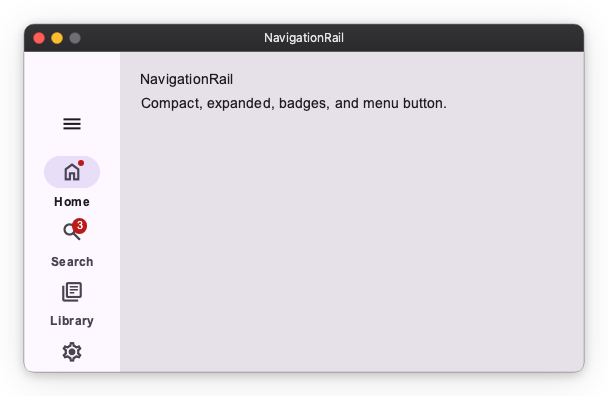
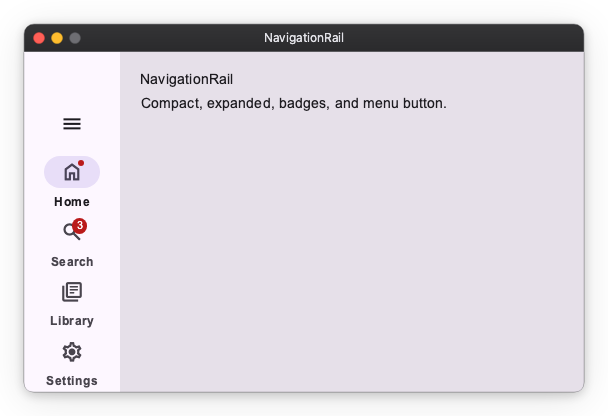
fix: give NavigationRail an intrinsic height under auto sizing (#377)
A NavigationRail without an explicit height resolved to Sizing.auto(),
but its custom _NavigationRailLayout never implemented preferred_size, so
the base Widget default reported height 0. The rail still painted its
items, yet its layout rect was 0-height and pointer hit-testing missed
the whole rail (no hover, click, or menu toggle).

Implement preferred_size on _NavigationRailLayout, mirroring the collapsed
metrics used by its running-cursor layout, so Box -> NavigationRail.
preferred_size propagates a real content height. auto now sizes the rail
to its content and it becomes hit-testable without an explicit height.

Also drop the explicit height from the NavigationRail sample and
regenerate its guide image to exercise the auto path.

diff --git a/tests/navigation/test_navigation_rail_layout.py b/tests/navigation/test_navigation_rail_layout.py
@@ -486,6 +486,74 @@ def test_animation_transition_expanded_to_collapsed_container_width():
 
 
 # ---------------------------------------------------------------------------
+# Intrinsic (auto) height — preferred_size (#377)
+# ---------------------------------------------------------------------------
+# Without an explicit height the rail resolves to Sizing.auto() ("size to
+# preferred"). Before #377 the custom layout reported height 0, so the rail
+# painted but had a 0-height rect that missed all pointer hit-testing.
+
+
+def test_preferred_size_reports_intrinsic_content_height():
+    """auto height sizes the rail to its content instead of collapsing to 0.
+
+    Default style, 3 items, menu button shown:
+        top_padding(44)
+        + menu_button_size(56) + gap_collapsed(4)
+        + 3 * item_height(56)
+        + (3 - 1) * gap_collapsed(4)
+        = 280
+    """
+    items = [
+        RailItem(icon="home", label="Home"),
+        RailItem(icon="search", label="Search"),
+        RailItem(icon="settings", label="Settings"),
+    ]
+    rail = NavigationRail(children=items, expanded=False)
+
+    pref_w, pref_h = rail.preferred_size()
+    assert pref_w == 96
+    assert pref_h == 280
+
+
+def test_preferred_size_excludes_menu_button_when_hidden():
+    """Hiding the menu button drops its size and gap from the intrinsic height.
+
+        top_padding(44) + 2 * item_height(56) + 1 * gap_collapsed(4) = 160
+    """
+    items = [
+        RailItem(icon="home", label="Home"),
+        RailItem(icon="search", label="Search"),
+    ]
+    rail = NavigationRail(children=items, expanded=False, show_menu_button=False)
+
+    _pref_w, pref_h = rail.preferred_size()
+    assert pref_h == 160
+
+
+def test_auto_height_layout_is_non_zero_and_hittable():
+    """Under auto height the laid-out rect matches the intrinsic content height.
+
+    Regression for #377: a 0-height rect is painted but invisible to pointer
+    hit-testing. The rail's layout_rect height must equal its preferred height.
+    """
+    from nuiitivet.layout.row import Row
+
+    items = [
+        RailItem(icon="home", label="Home"),
+        RailItem(icon="search", label="Search"),
+    ]
+    rail = NavigationRail(children=items, expanded=False)  # height defaults to auto
+    row = Row(children=[rail], width=Sizing.flex(1), height=Sizing.flex(1))
+    row.layout(400, 300)
+
+    assert rail.layout_rect is not None
+    _x, _y, _w, h = rail.layout_rect
+    assert h > 0
+    # top_padding(44) + menu(56) + gap(4) + 2*56 + 1*4 = 220
+    assert h == 220
+
+
+# ---------------------------------------------------------------------------
 # Long-label truncation (#276)
 # ---------------------------------------------------------------------------
 

diff --git a/src/nuiitivet/material/navigation_rail.py b/src/nuiitivet/material/navigation_rail.py
@@ -626,6 +626,34 @@ class _NavigationRailLayout(Widget):
         self.mark_needs_layout()
         self.invalidate()
 
+    def preferred_size(self, max_width: Optional[int] = None, max_height: Optional[int] = None) -> Tuple[int, int]:
+        """Return the intrinsic content size using the collapsed metrics.
+
+        Mirrors the running cursor used in :meth:`layout` so that ``auto`` height
+        sizes the rail to its content instead of collapsing to zero (which would
+        leave it painted but invisible to hit-testing).
+        """
+        gap = float(self._style.gap_collapsed)
+
+        height = float(self._style.top_padding)
+        if self._menu_button is not None:
+            height += float(self._style.menu_button_size) + gap
+
+        item_count = len(self._item_buttons)
+        if item_count > 0:
+            height += item_count * float(self._style.item_height)
+            height += (item_count - 1) * gap
+
+        width = float(self._style.container_width_collapsed)
+
+        pref_w = int(width)
+        pref_h = int(height)
+        if max_width is not None:
+            pref_w = min(pref_w, int(max_width))
+        if max_height is not None:
+            pref_h = min(pref_h, int(max_height))
+        return (pref_w, pref_h)
+
     def layout(self, width: int, height: int) -> None:
         Widget.layout(self, width, height)
 

diff --git a/samples/design-system/material_widgets/navigation_rail.py b/samples/design-system/material_widgets/navigation_rail.py
@@ -16,7 +16,6 @@ def main(png_path: str = "") -> None:
         index=nv.Observable(0),
         expanded=nv.Observable(False),
         show_menu_button=True,
-        height=nv.Sizing.flex(1),
     )
     body = nv.Card(
         nv.Column(
@@ -36,7 +35,6 @@ def main(png_path: str = "") -> None:
         content=nv.Row([rail, body], width=nv.Sizing.flex(1), height=nv.Sizing.flex(1)),
         title="NavigationRail",
         width=560,
-        height=320,
     )
     if png_path:
         app.render_to_png(png_path)
